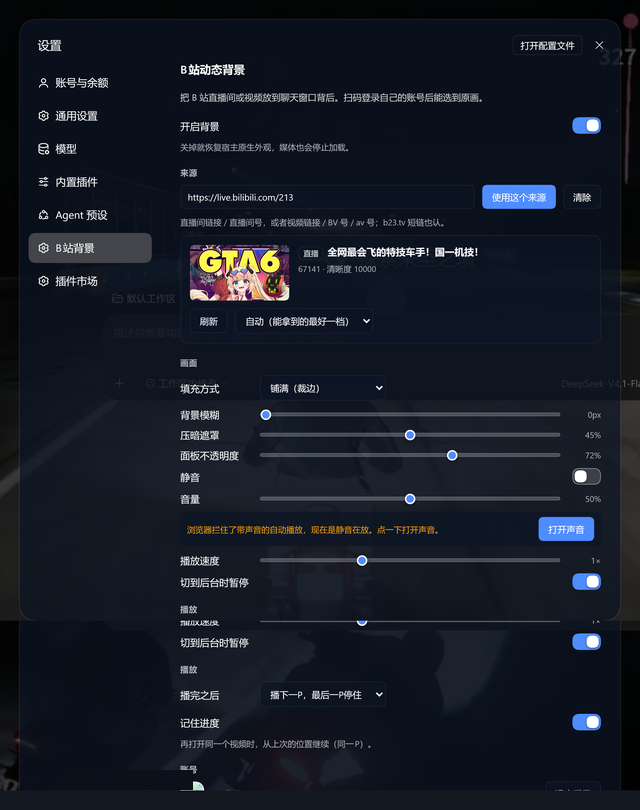
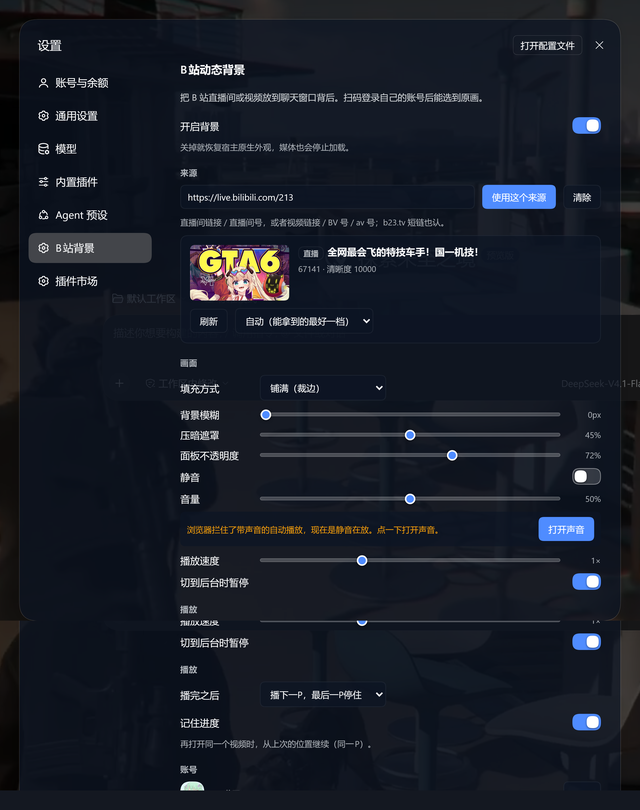
docs: recapture the screenshots from a real live frame
The background screenshot is now an actual frame of live.bilibili.com/213 while
it was broadcasting (original quality), instead of the patched version that had
boxes painted over it. Identity redaction runs through redactIdentity() at the
DOM level, so the user button reads "User" with a neutral placeholder avatar.

Settings screenshot recaptured and stitched from scroll segments; its account
row shows only the signed-in state.

Privacy handling is unchanged from 0.3.3; this only improves how the images look.

v0.3.4

diff --git a/index.js b/index.js
@@ -979,7 +979,7 @@ export function apply(ctx) {
       }
       return sendJson(res, 200, {
         ok: true,
-        version: '0.3.3',
+        version: '0.3.4',
         home: dir,
         config,
         account,

diff --git a/CHANGELOG.en.md b/CHANGELOG.en.md
@@ -13,6 +13,24 @@ Nothing yet.
 
 ---
 
+## [0.3.4] - 2026-11-25
+
+The background screenshot is now a **real live frame** (the previous one was patched by
+painting over pixels and looked blunt).
+
+### Documentation
+
+- Background screenshot recaptured: the original-quality picture of
+  `https://live.bilibili.com/213` while it was broadcasting, with identity redaction done
+  by `redactIdentity()` at the DOM level — shown as `User` plus a neutral placeholder
+  avatar, rather than painted over afterwards.
+- The settings screenshot was recaptured too and stitched from segments; its account row
+  shows only the signed-in state.
+
+> Relative to 0.3.3 this only improves how the images look; the privacy handling is the same.
+
+---
+
 ## [0.3.3] - 2026-11-25
 
 **Privacy fix**: the published screenshots contained the user's account details.
@@ -338,7 +356,8 @@ First release on npm and GitHub.
 - When the browser blocks autoplay: start muted, show an "turn sound on" hint in the page,
   and restore sound on one click — no more silent muting behind the user's back.
 
-[Unreleased]: https://github.com/st21a1/dsh-bili-wallpaper/compare/v0.3.3...HEAD
+[Unreleased]: https://github.com/st21a1/dsh-bili-wallpaper/compare/v0.3.4...HEAD
+[0.3.4]: https://github.com/st21a1/dsh-bili-wallpaper/compare/v0.3.3...v0.3.4
 [0.3.3]: https://github.com/st21a1/dsh-bili-wallpaper/compare/v0.3.2...v0.3.3
 [0.3.2]: https://github.com/st21a1/dsh-bili-wallpaper/compare/v0.3.1...v0.3.2
 [0.3.1]: https://github.com/st21a1/dsh-bili-wallpaper/compare/v0.3.0...v0.3.1

diff --git a/CHANGELOG.md b/CHANGELOG.md
@@ -13,6 +13,21 @@
 
 ---
 
+## [0.3.4] - 2026-11-25
+
+背景截图换成**真实直播画面**（此前那张是补丁式打码，观感生硬）。
+
+### 文档
+
+- 背景截图重新拍摄：`https://live.bilibili.com/213` 正在开播时的原画画面，
+  身份遮蔽由 `redactIdentity()` 在 DOM 层完成 —— 显示为 `User` 与中性占位头像，
+  不是事后涂改像素。
+- 设置页截图同步重拍并分段拼接，底部账号行只显示「已登录」。
+
+> 两张图相对 0.3.3 只是观感改善，隐私处理方式相同。
+
+---
+
 ## [0.3.3] - 2026-11-25
 
 **隐私修复**：已发布的截图里含使用者的账号信息。
@@ -291,7 +306,8 @@
 - 浏览器拦截自动播放时：先静音放起来并在页面提示「打开声音」，点一下即恢复，
   不再悄悄静音。
 
-[Unreleased]: https://github.com/st21a1/dsh-bili-wallpaper/compare/v0.3.3...HEAD
+[Unreleased]: https://github.com/st21a1/dsh-bili-wallpaper/compare/v0.3.4...HEAD
+[0.3.4]: https://github.com/st21a1/dsh-bili-wallpaper/compare/v0.3.3...v0.3.4
 [0.3.3]: https://github.com/st21a1/dsh-bili-wallpaper/compare/v0.3.2...v0.3.3
 [0.3.2]: https://github.com/st21a1/dsh-bili-wallpaper/compare/v0.3.1...v0.3.2
 [0.3.1]: https://github.com/st21a1/dsh-bili-wallpaper/compare/v0.3.0...v0.3.1
